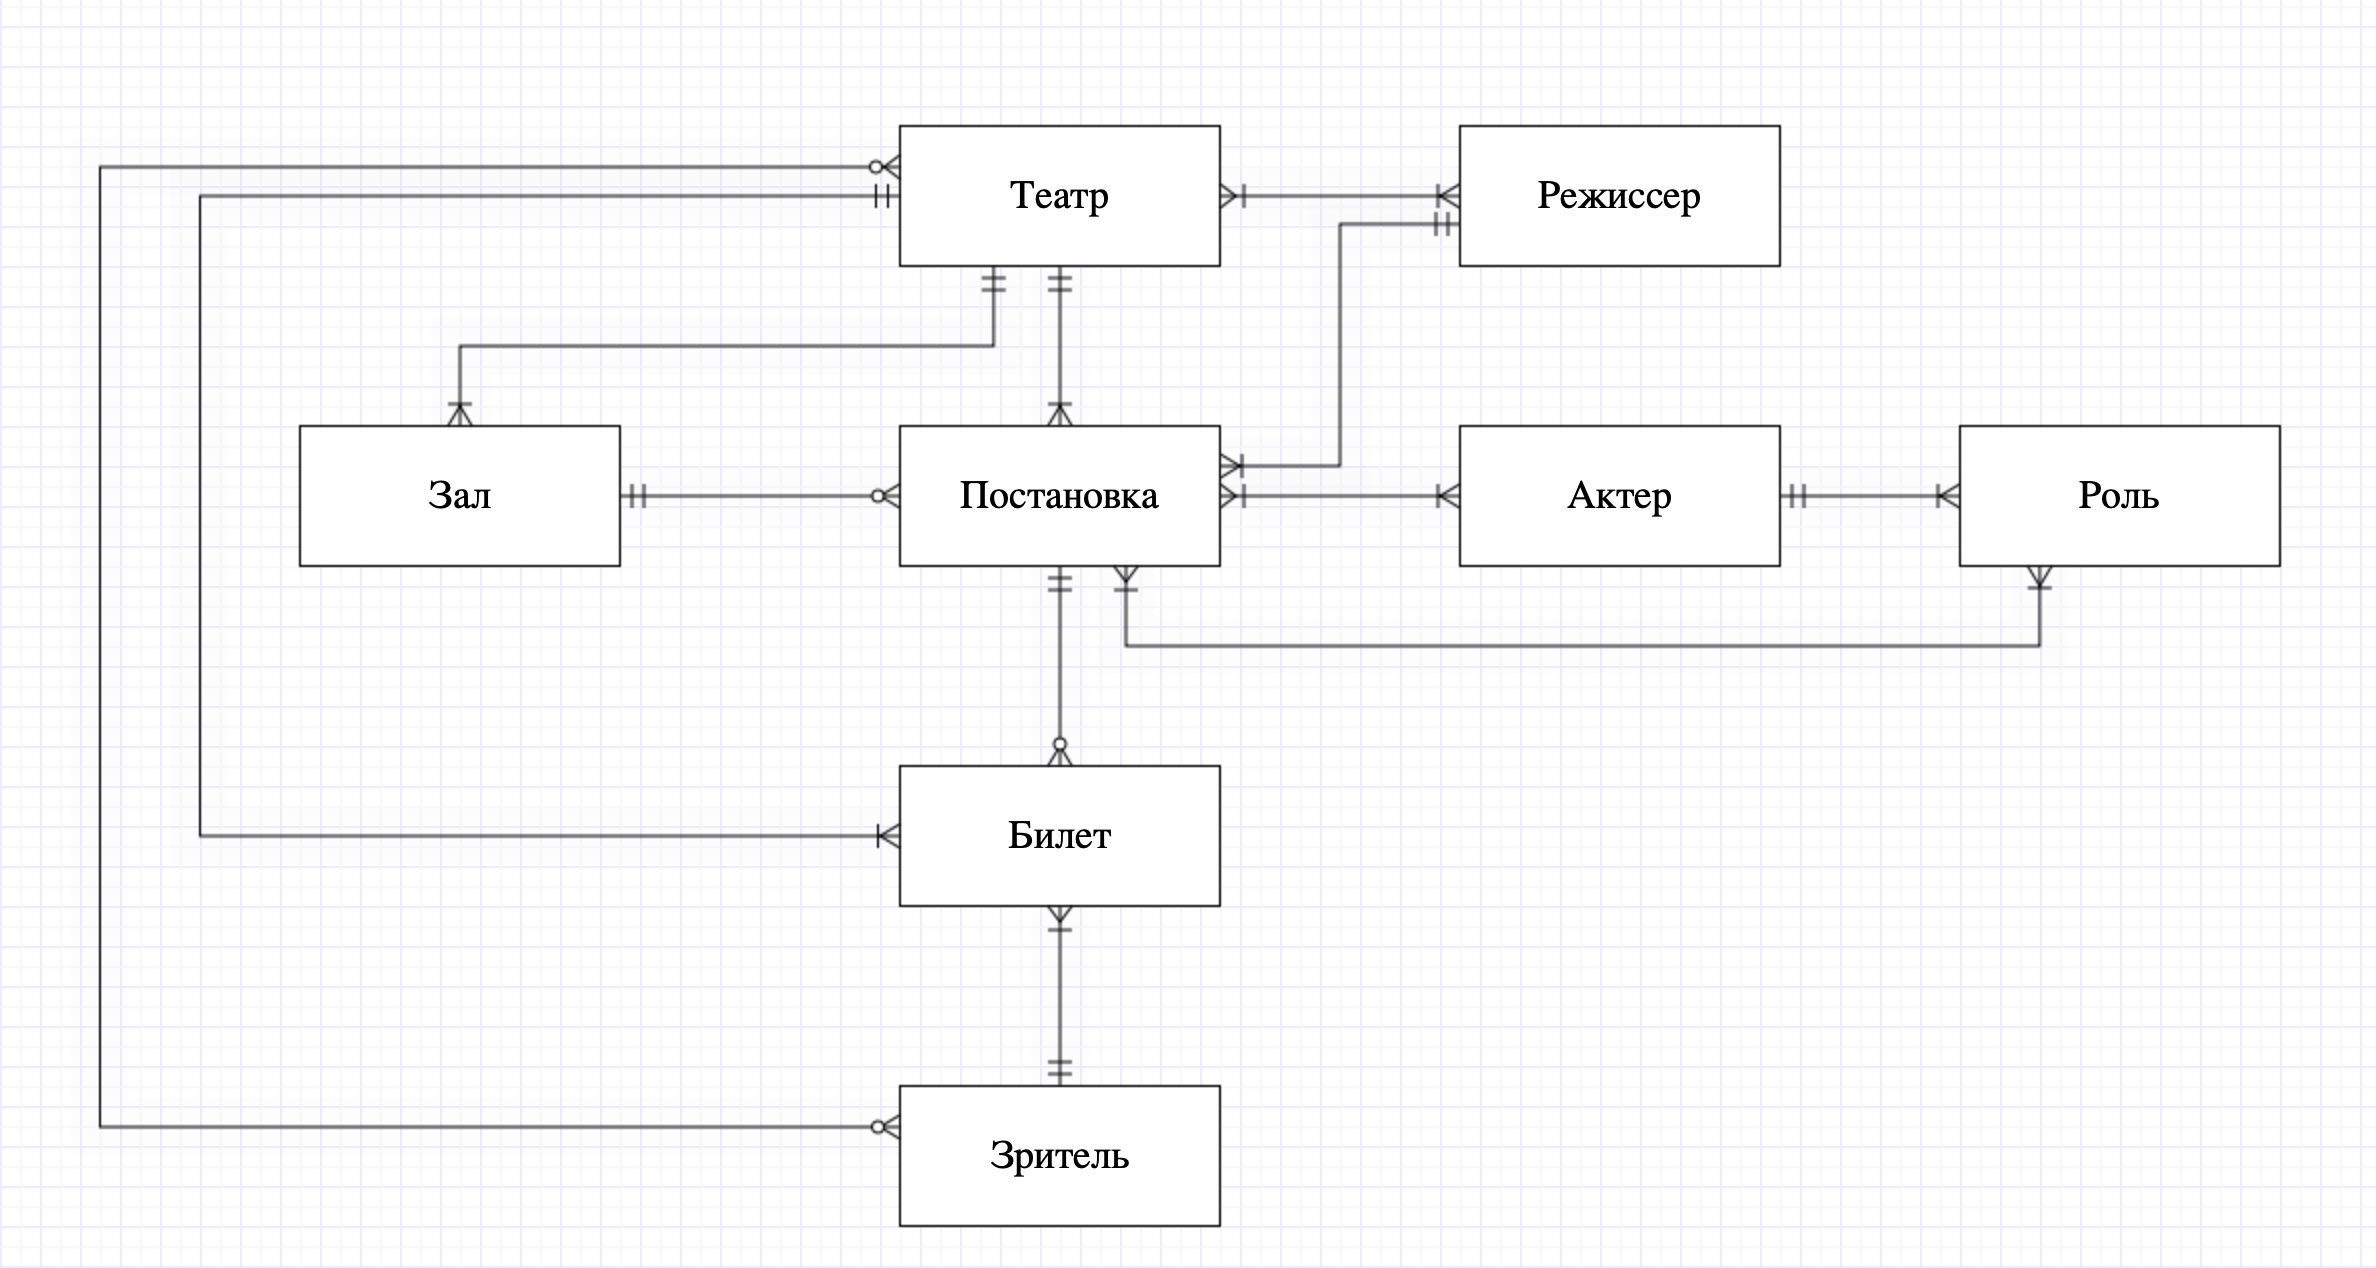
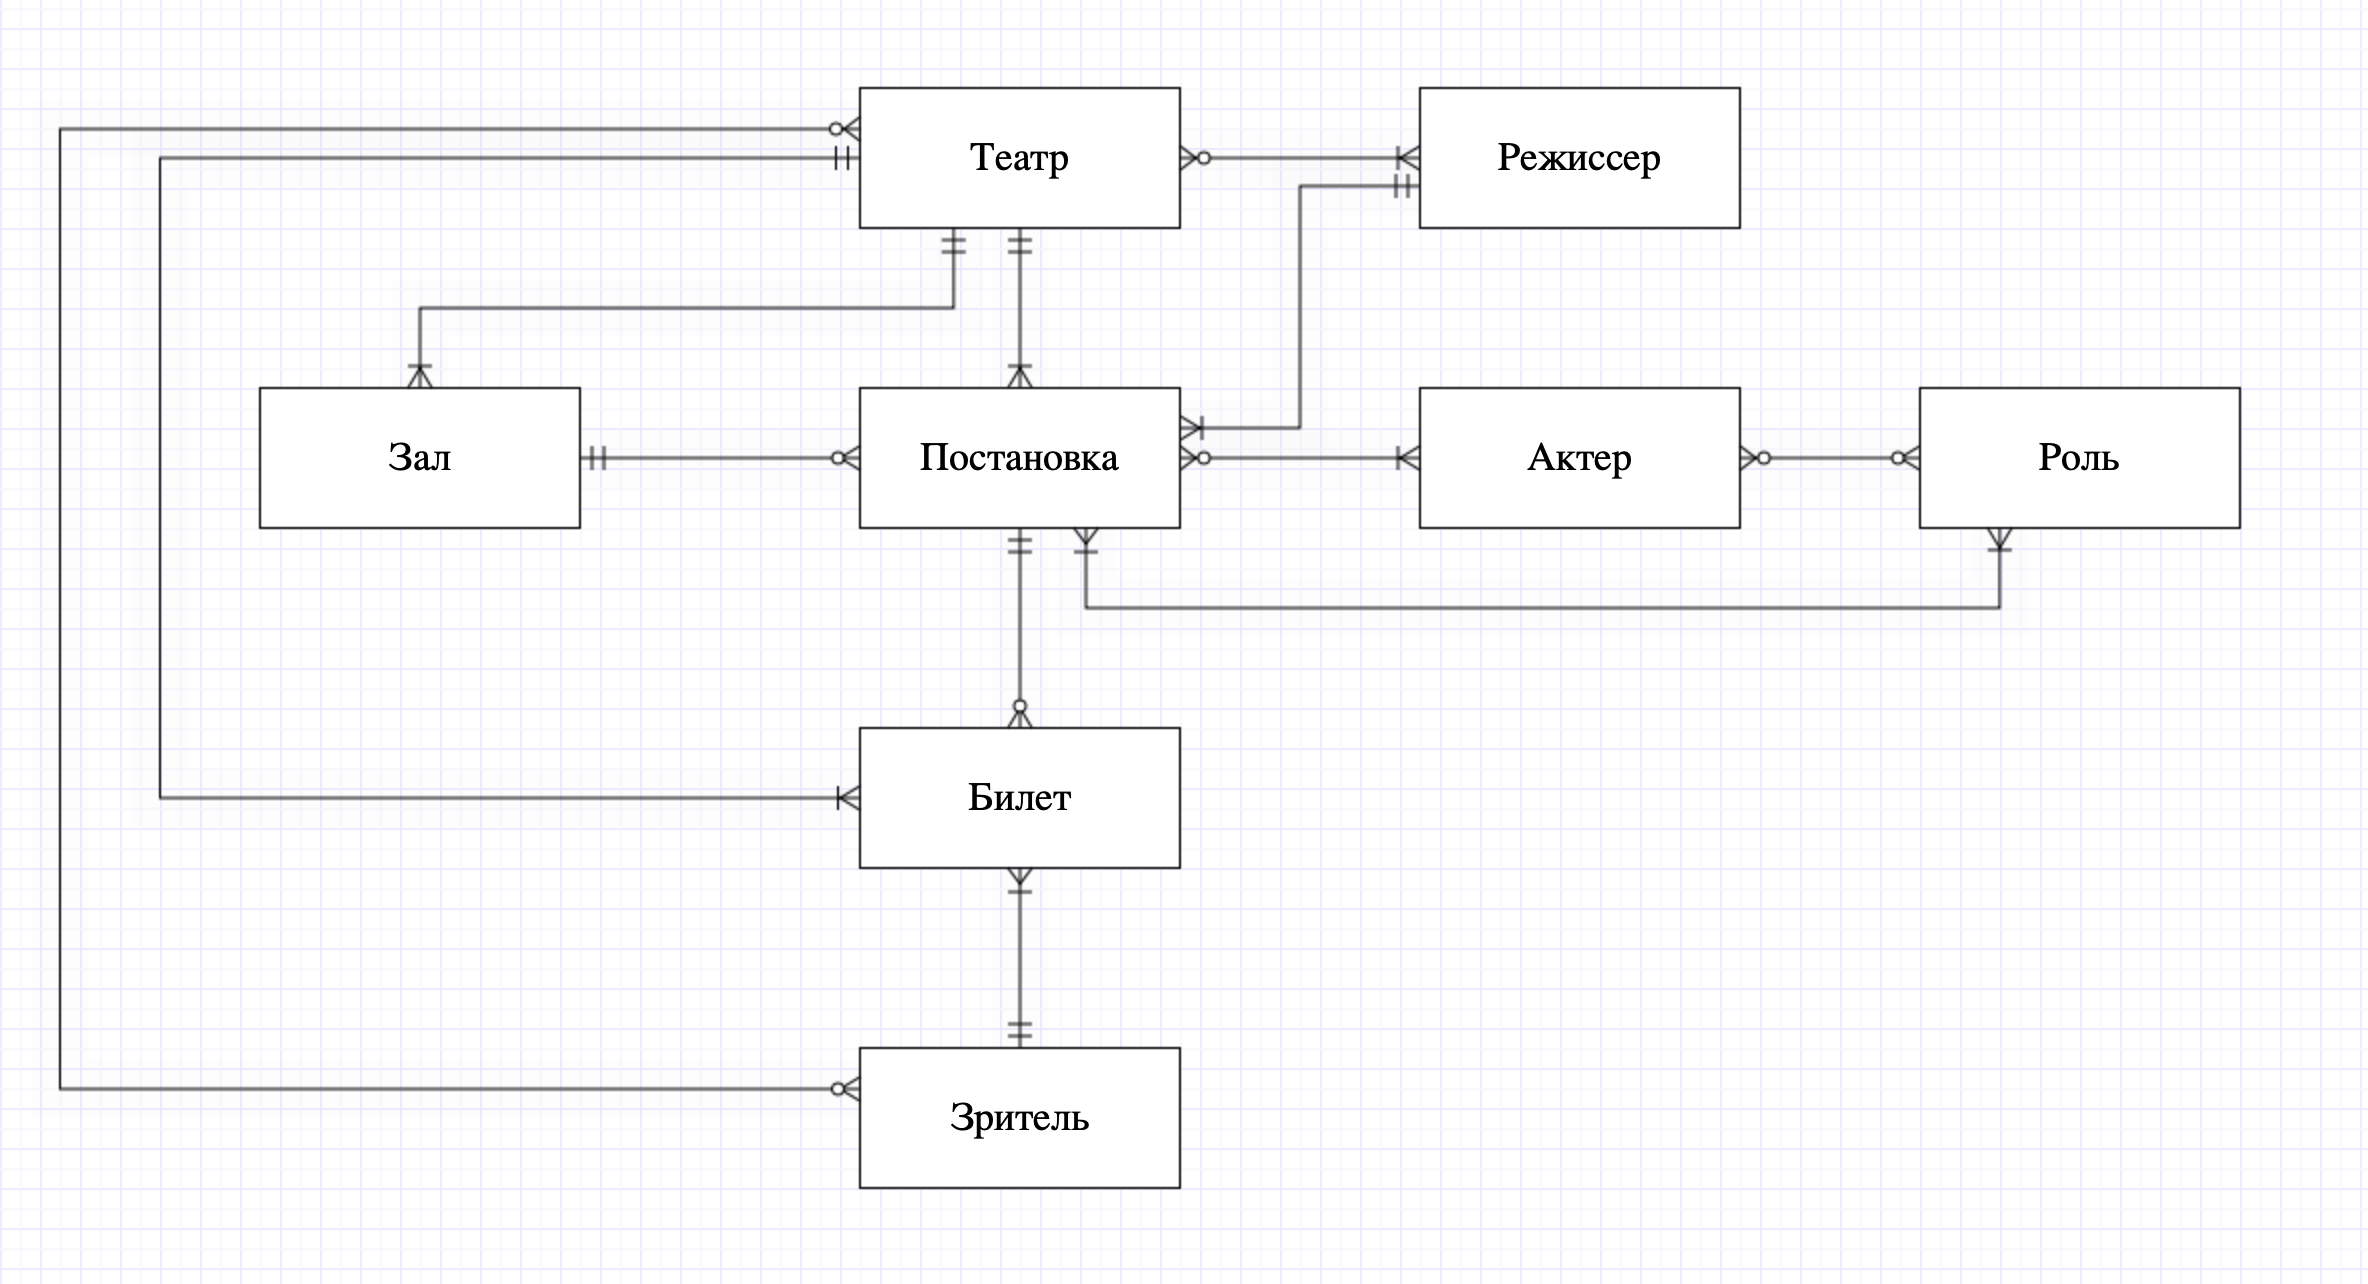
updated model and readme

Changed region(s): [[0.0312, 0.0615, 0.9688, 0.7382], [0.0312, 0.7689, 0.5, 0.9842], [0.125, 0.3691, 0.25, 0.4614]]

diff --git a/README.md b/README.md
@@ -1,9 +1,11 @@
 # DatabaseCourse
 
 --------
+
 ## ER - модель: Афиша театральных представлений
 
-### Описание сущностей:
+### Описание сущностей
+
 1. Билет
 2. Постановка
 3. Театр
@@ -13,5 +15,69 @@
 7. Роль
 8. Зал
 
-### Модель: 
+### Описание взаимосвязей
+
+1. Билет - Зритель
+
+    * Каждый зритель может иметь множество билетов.
+
+    * У билета один владелец.
+
+2. Зритель - Театр
+    * Зритель мог быть посетителем нескольких театров, либо посещать театр впервые. (Статистика посещений конкретных театров)
+
+    * Театр могут посещать много зрителей, либо ни одного. (Дисконтные карты, акции и бан-листы театра)
+
+3. Билет - Постановка
+    * Билет однозначно определяет постановку, на которую пойдет зритель.
+
+    * На постановку может быть либо продано много билетов, либо не продан ни один.
+
+4. Билет - Театр
+    * Билет однозначно определяет театр, который собирается посетить зритель.
+
+    * Театр может продать много билетов.
+
+5. Постановка - Зал
+    * Постановка ставится в одном зале.
+
+    * В одном зале было проведено много представлений.
+
+6. Зал - Театр
+    * Конкретный зал принадлежит конкретному театру.
+
+    * Конкретному театру принадлежит много залов.
+
+7. Постановка - Театр
+    * Конретная постановка проводится в конкретном театре. (Конкретная == на которую был продан билет)
+
+    * В театре проводится много постановок.
+
+8. Театр - Режиссер
+    * В театре работают много режиссеров.
+
+    * Режиссер может работать либо во многих театрах, либо временно ни в одном.
+
+9. Постановка - Режиссер
+    * Конкретная постановка была поставлена конкретным режиссером.
+
+    * Режиссер может ставить много постановок.
+
+10. Постановка - Актер
+    * В одной постановке играют либо много актеров, либо один.
+
+    * Один актер либо играет в хотя бы одной постановке, либо не играет ни в одной.
+
+11. Актер - Роль
+    * Актер может играть несколько ролей. В одной или разных постановках, либо не играть ни одной.
+
+    * Роль может быть сыграна несколькими актерами в разных постановках, либо не быть сыграна никем. (Кастинг еще не завершился)
+
+12. Роль - Постановка
+     * В постановке либо одна, либо несколько ролей.
+
+     * Одна роль может быть либо в одной постановке, либо в нескольких.
+
+### Модель
+
 ![ER-Модель](er-model.png)
